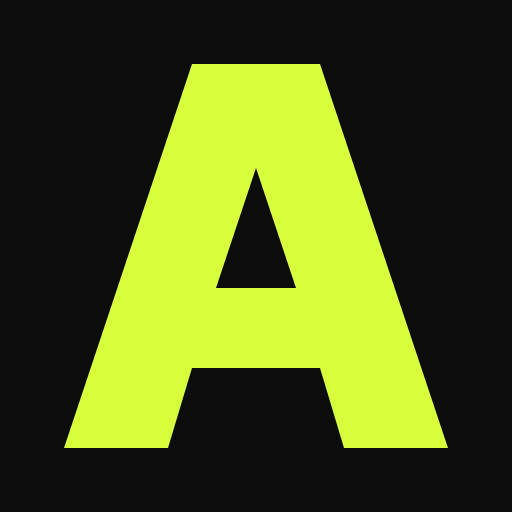
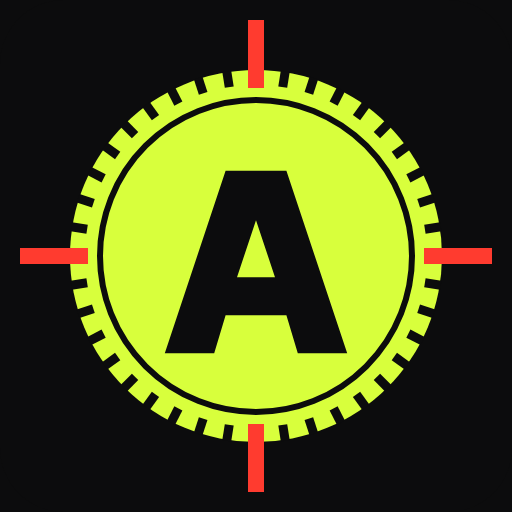
A crypto mark: a reeded coin with the A stamped in it, under a crosshair
The org avatar, favicon and app icons were a plain lime A. The new mark
is a lime coin with a notched edge, the A stamped into it, and a red
crosshair: spotting the coin early. assets/mark.svg is its source; it
reads at 20px and fits GitHub's circular crop.

Changed region(s): [[0.0312, 0.0312, 0.9688, 0.9688]]

diff --git a/tools/avatar-render.html b/tools/avatar-render.html
@@ -1,7 +1,7 @@
 <!DOCTYPE html>
 <!-- Source for assets/org-avatar.png (512x512). Regenerate with tools/render-og.sh.
-     The mark is the same "A" path as assets/favicon.svg, inset so GitHub's
-     circular crop keeps it whole. -->
+     The mark is assets/mark.svg: a reeded lime coin with the "A" stamped in it
+     and a red crosshair (hunting the coin). It fits GitHub's circular crop. -->
 <html lang="en">
 <head>
 <meta charset="utf-8">
@@ -9,11 +9,11 @@
   html, body { margin: 0; width: 512px; height: 512px; overflow: hidden; }
   .a { width: 512px; height: 512px; display: grid; place-items: center;
     background: repeating-linear-gradient(0deg, rgba(255,255,255,.035) 0 2px, transparent 2px 5px), #0C0C0D; }
-  svg { width: 300px; height: 300px; display: block; }
+  svg { width: 512px; height: 512px; display: block; }
 </style>
 </head>
 <body><div class="a">
-  <svg viewBox="8 8 48 48" aria-hidden="true"><path fill="#D8FF3C" fill-rule="evenodd" d="M24 8h16l16 48H43l-3-10H24l-3 10H8zM32 21l-5 15h10z"/></svg>
+  <svg viewBox="0 0 512 512" aria-hidden="true"><rect width="512" height="512" fill="#0C0C0D"/><circle cx="256" cy="256" r="186" fill="#D8FF3C"/><rect x="251.5" y="69.0" width="9" height="16" fill="#0C0C0D" transform="rotate(0.00 256 256)"/><rect x="251.5" y="69.0" width="9" height="16" fill="#0C0C0D" transform="rotate(9.00 256 256)"/><rect x="251.5" y="69.0" width="9" height="16" fill="#0C0C0D" transform="rotate(18.00 256 256)"/><rect x="251.5" y="69.0" width="9" height="16" fill="#0C0C0D" transform="rotate(27.00 256 256)"/><rect x="251.5" y="69.0" width="9" height="16" fill="#0C0C0D" transform="rotate(36.00 256 256)"/><rect x="251.5" y="69.0" width="9" height="16" fill="#0C0C0D" transform="rotate(45.00 256 256)"/><rect x="251.5" y="69.0" width="9" height="16" fill="#0C0C0D" transform="rotate(54.00 256 256)"/><rect x="251.5" y="69.0" width="9" height="16" fill="#0C0C0D" transform="rotate(63.00 256 256)"/><rect x="251.5" y="69.0" width="9" height="16" fill="#0C0C0D" transform="rotate(72.00 256 256)"/><rect x="251.5" y="69.0" width="9" height="16" fill="#0C0C0D" transform="rotate(81.00 256 256)"/><rect x="251.5" y="69.0" width="9" height="16" fill="#0C0C0D" transform="rotate(90.00 256 256)"/><rect x="251.5" y="69.0" width="9" height="16" fill="#0C0C0D" transform="rotate(99.00 256 256)"/><rect x="251.5" y="69.0" width="9" height="16" fill="#0C0C0D" transform="rotate(108.00 256 256)"/><rect x="251.5" y="69.0" width="9" height="16" fill="#0C0C0D" transform="rotate(117.00 256 256)"/><rect x="251.5" y="69.0" width="9" height="16" fill="#0C0C0D" transform="rotate(126.00 256 256)"/><rect x="251.5" y="69.0" width="9" height="16" fill="#0C0C0D" transform="rotate(135.00 256 256)"/><rect x="251.5" y="69.0" width="9" height="16" fill="#0C0C0D" transform="rotate(144.00 256 256)"/><rect x="251.5" y="69.0" width="9" height="16" fill="#0C0C0D" transform="rotate(153.00 256 256)"/><rect x="251.5" y="69.0" width="9" height="16" fill="#0C0C0D" transform="rotate(162.00 256 256)"/><rect x="251.5" y="69.0" width="9" height="16" fill="#0C0C0D" transform="rotate(171.00 256 256)"/><rect x="251.5" y="69.0" width="9" height="16" fill="#0C0C0D" transform="rotate(180.00 256 256)"/><rect x="251.5" y="69.0" width="9" height="16" fill="#0C0C0D" transform="rotate(189.00 256 256)"/><rect x="251.5" y="69.0" width="9" height="16" fill="#0C0C0D" transform="rotate(198.00 256 256)"/><rect x="251.5" y="69.0" width="9" height="16" fill="#0C0C0D" transform="rotate(207.00 256 256)"/><rect x="251.5" y="69.0" width="9" height="16" fill="#0C0C0D" transform="rotate(216.00 256 256)"/><rect x="251.5" y="69.0" width="9" height="16" fill="#0C0C0D" transform="rotate(225.00 256 256)"/><rect x="251.5" y="69.0" width="9" height="16" fill="#0C0C0D" transform="rotate(234.00 256 256)"/><rect x="251.5" y="69.0" width="9" height="16" fill="#0C0C0D" transform="rotate(243.00 256 256)"/><rect x="251.5" y="69.0" width="9" height="16" fill="#0C0C0D" transform="rotate(252.00 256 256)"/><rect x="251.5" y="69.0" width="9" height="16" fill="#0C0C0D" transform="rotate(261.00 256 256)"/><rect x="251.5" y="69.0" width="9" height="16" fill="#0C0C0D" transform="rotate(270.00 256 256)"/><rect x="251.5" y="69.0" width="9" height="16" fill="#0C0C0D" transform="rotate(279.00 256 256)"/><rect x="251.5" y="69.0" width="9" height="16" fill="#0C0C0D" transform="rotate(288.00 256 256)"/><rect x="251.5" y="69.0" width="9" height="16" fill="#0C0C0D" transform="rotate(297.00 256 256)"/><rect x="251.5" y="69.0" width="9" height="16" fill="#0C0C0D" transform="rotate(306.00 256 256)"/><rect x="251.5" y="69.0" width="9" height="16" fill="#0C0C0D" transform="rotate(315.00 256 256)"/><rect x="251.5" y="69.0" width="9" height="16" fill="#0C0C0D" transform="rotate(324.00 256 256)"/><rect x="251.5" y="69.0" width="9" height="16" fill="#0C0C0D" transform="rotate(333.00 256 256)"/><rect x="251.5" y="69.0" width="9" height="16" fill="#0C0C0D" transform="rotate(342.00 256 256)"/><rect x="251.5" y="69.0" width="9" height="16" fill="#0C0C0D" transform="rotate(351.00 256 256)"/><circle cx="256" cy="256" r="156" fill="none" stroke="#0C0C0D" stroke-width="6"/><path fill="#0C0C0D" fill-rule="evenodd" d="M24 8h16l16 48H43l-3-10H24l-3 10H8zM32 21l-5 15h10z" transform="translate(256 262) scale(3.8) translate(-32 -32)"/><g stroke="#FF3B2F" stroke-width="16"><line x1="256" y1="20" x2="256" y2="88"/><line x1="256" y1="424" x2="256" y2="492"/><line x1="20" y1="256" x2="88" y2="256"/><line x1="424" y1="256" x2="492" y2="256"/></g></svg>
 </div>
 </body>
 </html>
